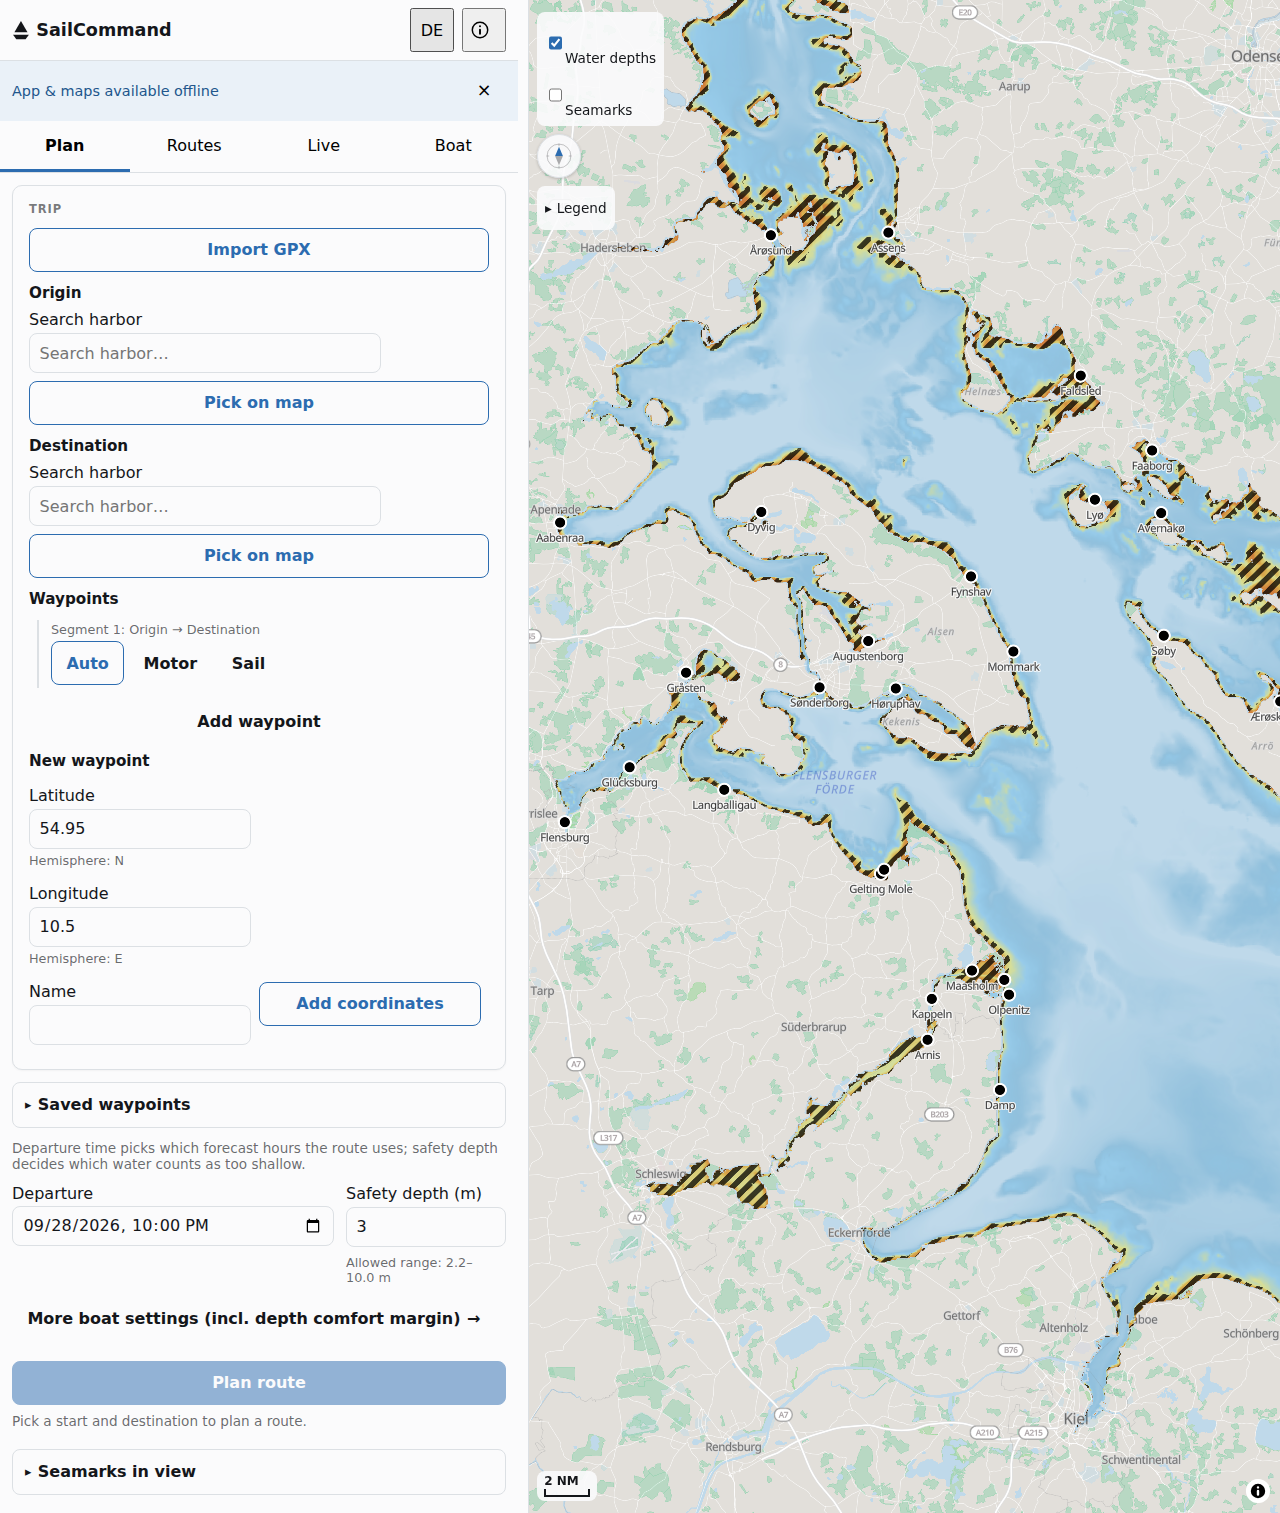
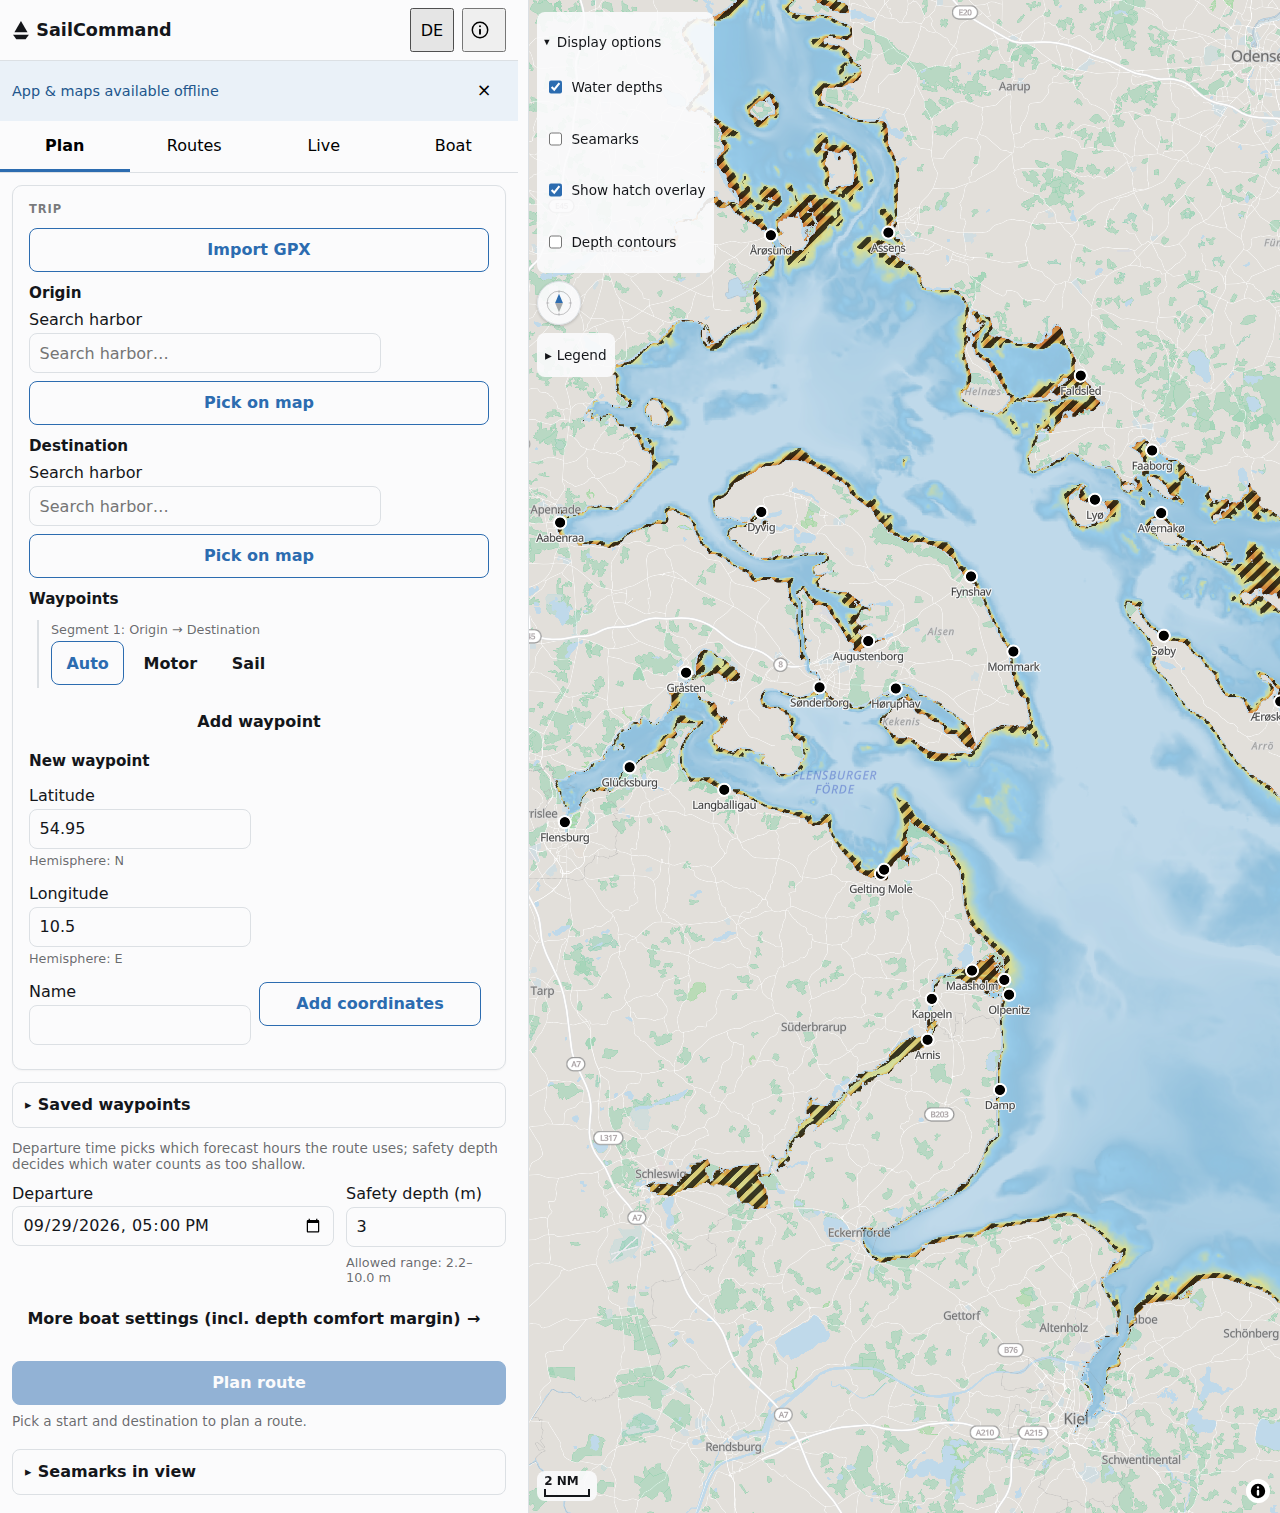
docs: v0.48.0 release sweep (#132 ritual)
Fold the three pending changelog fragments into [0.48.0] (two under
Changed, namely #1540 and #1541; one under Fixed, namely #1533), delete
them, and roll the comparison links.

Roll ROADMAP (Current release, Now, Next), CONTRIBUTING's milestone list
and the security assurance case header and Dependabot figure. README's
depth-overlay bullet now names the display-options control and the
contour toggle. Recapture the three README screenshots against a preview
build of develop; the hero route is sail-dominant. Record the #1540
sweep run in the sweep-closure ledger.

Changed region(s): [[0.4062, 0.0, 0.5625, 0.2485]]

diff --git a/docs/security-assurance-case.md b/docs/security-assurance-case.md
@@ -1,7 +1,7 @@
 # SailCommand security assurance case
 
-**Status:** current as of 2026-09-28, describing `develop` at the time of
-writing (`v0.47.0` cut). Reviewed at each release cut.
+**Status:** current as of 2026-09-29, describing `develop` at the time of
+writing (`v0.48.0` cut). Reviewed at each release cut.
 **Audience:** users deciding whether to trust the app, and reviewers assessing
 the project (this document is the artifact for the OpenSSF Best Practices
 `assurance_case` criterion).
@@ -363,7 +363,7 @@ place to occur, not that it was judged unlikely.
 | **A03 Injection** (CWE-79 XSS, CWE-89 SQLi, CWE-611 XXE) | Countered | No SQL and no server-side interpreter. XSS: no `innerHTML` / `dangerouslySetInnerHTML` / `eval` / `new Function` anywhere; React escapes by default. XXE: `DOMParser` with `application/xml` does not resolve external entities. CodeQL's `js/xss-through-dom` alert on that parse is a **documented false positive** — its DOM-XSS sink model is mime-insensitive, while an `application/xml` parse is inert and the parser extracts only numeric coordinates and enumerated notices |
 | **A04 Insecure design** | Countered | This document is the design argument; see [§5](#5-secure-design-argument). Threats were considered against the architecture, and the largest control is architectural: no backend, no accounts, no central data |
 | **A05 Security misconfiguration** | Countered | Minimal workflow permissions, SHA-pinned actions, protected branches, secret scanning with push protection, no debug endpoints, static hosting. GitHub Pages cannot set response headers, so the app injects a `<meta http-equiv="Content-Security-Policy">` at build time (`cspMeta()` in `app/vite.config.ts`) with `default-src 'self'`, a `connect-src` allowlist of `'self'` plus Open-Meteo and aisstream.io, `worker-src 'self'` (no `blob:` — it would defeat `script-src 'self'`), `img-src` widened to `data:`/`blob:` where maplibre-gl 6 demonstrably needs it, and no `'unsafe-inline'`/`'unsafe-eval'`, plus the static `<meta name="referrer" content="strict-origin-when-cross-origin">` already present in `app/index.html` ([#223](https://github.com/DocGerd/sail_command/issues/223)). The meta form cannot express `frame-ancestors` or `report-uri` — accepted, static host with no framing threat model and no collector |
-| **A06 Vulnerable and outdated components** (CWE-1104) | Countered | Lockfiles for every ecosystem; Dependabot across five update configurations spanning three package ecosystems (npm ×2, pip ×2, github-actions) weekly plus security updates; no open Dependabot alerts — the live state is the fact rather than this sentence: `gh api repos/DocGerd/sail_command/dependabot/alerts --jq '[.[]\|select(.state=="open")]\|length'` (0 at the `v0.47.0` cut); a committed third-party notices inventory whose drift fails CI; no vendored or forked convenience copies |
+| **A06 Vulnerable and outdated components** (CWE-1104) | Countered | Lockfiles for every ecosystem; Dependabot across five update configurations spanning three package ecosystems (npm ×2, pip ×2, github-actions) weekly plus security updates; no open Dependabot alerts — the live state is the fact rather than this sentence: `gh api repos/DocGerd/sail_command/dependabot/alerts --jq '[.[]\|select(.state=="open")]\|length'` (0 at the `v0.48.0` cut); a committed third-party notices inventory whose drift fails CI; no vendored or forked convenience copies |
 | **A07 Identification and authentication failures** | N/A by architecture | There is no authentication. No accounts, no passwords, no sessions, no password reset, nothing to brute-force |
 | **A08 Software and data integrity failures** (CWE-502) | **Partially countered** | Reproducible double-build with byte-drift gating, SHA-pinned actions, protected branches, post-deploy smoke probe, and — from `v0.8.0` — SSH-signed release tags verifiable via `git tag -v` ([#322](https://github.com/DocGerd/sail_command/issues/322)); the signing key is registered and the `git tag -v` verification path is proven end to end for every signed tag including `v0.8.0`, so a user willing to run that command can confirm a tag traces to the maintainer. GitHub's Verified badge — the no-local-config channel — is a documented exception for the `v0.8.0` tag itself (signed under an email not registered on the maintainer's GitHub account; see `v0.8.1`'s CHANGELOG entry) and does show correctly for **every** tag from `v0.8.1` onward, each reporting `verified: true, reason: "valid"` — re-derivable with `gh api repos/DocGerd/sail_command/git/tags/$(git rev-parse refs/tags/vX.Y.Z) --jq .verification` rather than trusted from a list here. No untrusted deserialization: IndexedDB uses structured clone of the app's own records, and a corrupt record is isolated to its own row rather than blanking the list. **Still partial**: signing covers the tagged commit's authorship, not the deployed artifact bytes GitHub Pages serves, and `v0.1.0`–`v0.7.0` remain permanently unsigned |
 | **A09 Logging and monitoring failures** | Accepted, documented | There is deliberately no telemetry — a privacy choice that means client-side attacks cannot be observed centrally. Repository-side monitoring exists (CodeQL, Dependabot, Scorecard, deploy smoke probe). For a client-only app with no user data on any server, the privacy benefit is judged to outweigh the lost visibility |

diff --git a/ROADMAP.md b/ROADMAP.md
@@ -13,46 +13,32 @@ The authoritative, always-current view is the
 milestones. This file is the human-readable summary of that state, refreshed at
 each release cut.
 
-Current release: **v0.47.0**. See [`CHANGELOG.md`](CHANGELOG.md) for what has
+Current release: **v0.48.0**. See [`CHANGELOG.md`](CHANGELOG.md) for what has
 shipped.
 
-## Now — v0.47.0
+## Now — v0.48.0
 
-The `v0.47.0` cut (2026-09-28) worked the
-[`v0.47.0` milestone](https://github.com/DocGerd/sail_command/milestones):
-two user-visible changes (per `CHANGELOG.md`'s own `[0.47.0]` section) —
-plotter-style depth contours, drawn on the cautious depth reading and
-toggled from the depth legend, default off
-([#629](https://github.com/DocGerd/sail_command/issues/629)), and the one-time
-pin of every saved plan's offline map regions at first service-worker control
-no longer depending on the Routes tab being open
-([#1518](https://github.com/DocGerd/sail_command/issues/1518)) — plus four
-issues with no user-visible surface: a failing coverage shard's blob upload is
-no longer skipped, so the failing test can be identified (not yet exercised)
-([#1527](https://github.com/DocGerd/sail_command/issues/1527));
-`compare.mjs`'s `--strip-planning-record` fail-closed guard gained a
-committed test
-([#1514](https://github.com/DocGerd/sail_command/issues/1514)); `pipeline/`
-gained a pytest harness, its first test covering `check_dtm_covers`
-([#1503](https://github.com/DocGerd/sail_command/issues/1503)); and the
-`354-mode-churn` spike's TWS 5.5/wdir 120 Ærøskøbing citation was re-run on
-the post-#1259 grid, which had re-pinned #847's neighbouring repro to TWS 6,
-and recorded as still reproducing
-([#1484](https://github.com/DocGerd/sail_command/issues/1484)).
+The `v0.48.0` cut (2026-09-29) worked the
+[`v0.48.0` milestone](https://github.com/DocGerd/sail_command/milestones):
+three user-visible changes (per `CHANGELOG.md`'s own `[0.48.0]` section) —
+depth contours drawn as smoothed lines that only ever shift toward deeper
+water ([#1540](https://github.com/DocGerd/sail_command/issues/1540)), the hatch and depth-contour toggles moving out of the map
+legend into the display-options control ([#1541](https://github.com/DocGerd/sail_command/issues/1541)), and saved plans' offline
+map regions being backfilled on a page already under service-worker control
+([#1533](https://github.com/DocGerd/sail_command/issues/1533)) — plus two issues with no user-visible surface: test, test-fake and
+comment follow-ups from the contours review ([#1537](https://github.com/DocGerd/sail_command/issues/1537)) and an explicit
+constructor parameter on the zero-argument `ResizeObserver` test fixtures
+behind the CodeQL false-positive alerts
+([#1545](https://github.com/DocGerd/sail_command/issues/1545)).
 
-Four issues that wait on a real-tablet session were moved to `Backlog` this
-cut, not carried forward
-into `v0.48.0`:
-([#1281](https://github.com/DocGerd/sail_command/issues/1281),
-[#1413](https://github.com/DocGerd/sail_command/issues/1413),
-[#1490](https://github.com/DocGerd/sail_command/issues/1490),
-[#1350](https://github.com/DocGerd/sail_command/issues/1350)).
+`ScaleBar` not re-measuring when the display-options control is opened by
+hand ([#1552](https://github.com/DocGerd/sail_command/issues/1552)) was filed during the cycle and sits in `Backlog`.
 
-## Next — v0.48.0
+## Next — v0.49.0
 
-The [`v0.48.0` milestone](https://github.com/DocGerd/sail_command/milestones)
-is empty as of this cut. The milestone page is the only authoritative view,
-check it directly rather than this file.
+The [`v0.49.0` milestone](https://github.com/DocGerd/sail_command/milestones)
+is empty as of this cut and its scope is not decided. The milestone page is
+the only authoritative view, check it directly rather than this file.
 
 ## Themes for the next year
 

diff --git a/CHANGELOG.md b/CHANGELOG.md
@@ -7,6 +7,17 @@ and this project adheres to [Semantic Versioning](https://semver.org/spec/v2.0.0
 
 ## [Unreleased]
 
+## [0.48.0] - 2026-09-29
+
+### Changed
+
+- Depth contours are drawn as smoothed lines instead of a cell-by-cell staircase. Smoothing only ever shifts a line toward deeper water, so a contour still never shows water as deeper than its cautious reading (#1540).
+- The hatch and depth-contour toggles moved out of the map legend into the display-options control: before a route is planned, one collapsible control at the top left (open on wide screens, collapsed on narrow ones) holds the water-depth, seamark, hatch and contour toggles, and once a route exists the hatch and contour toggles sit beside the route's other display toggles; the legend keeps only the explanations (#1541).
+
+### Fixed
+
+- Plans saved before the service worker first took control now download their offline map regions on the next load, per deployment, retrying on later loads (up to three failed attempts) until all are stored (#1533).
+
 ## [0.47.0] - 2026-09-28
 
 ### Added
@@ -1207,7 +1218,8 @@ and this project adheres to [Semantic Versioning](https://semver.org/spec/v2.0.0
 - German/English (de/en) UI localization (#23).
 - Full offline operation after first load via a service worker precache, including the regional PMTiles basemap with Range/206 support (#26).
 
-[Unreleased]: https://github.com/DocGerd/sail_command/compare/v0.47.0...HEAD
+[Unreleased]: https://github.com/DocGerd/sail_command/compare/v0.48.0...HEAD
+[0.48.0]: https://github.com/DocGerd/sail_command/compare/v0.47.0...v0.48.0
 [0.47.0]: https://github.com/DocGerd/sail_command/compare/v0.46.0...v0.47.0
 [0.46.0]: https://github.com/DocGerd/sail_command/compare/v0.45.0...v0.46.0
 [0.45.0]: https://github.com/DocGerd/sail_command/compare/v0.44.0...v0.45.0

diff --git a/README.md b/README.md
@@ -74,10 +74,13 @@ installs as a standalone icon and works fully offline after the first visit
   within the forecast horizon. A water-depths overlay shades the bathymetry
   while you plan (shallows warm, deep water fading out), and hatches water
   whose cautious, worst-case reading falls below your safety depth; the
-  overlay is on by default and can be toggled off, and the hatch can be
-  switched off independently of it. A legend explains what the hatch does
-  and does not mark — below the map's layer controls (collapsed by default)
-  before a route is planned, and folded into the route legend once one is.
+  overlay is on by default and can be toggled off, the hatch can be
+  switched off independently of it, and optional depth contour lines can be
+  switched on. Those toggles sit in the map's display-options control — top
+  left before a route is planned, beside the route's other display toggles
+  once one exists. A legend explains what the hatch does and does not mark —
+  below the map's layer controls (collapsed by default) before a route is
+  planned, and folded into the route legend once one is.
 - **Waypoints**: route through a specific point in between by arming **Add
   waypoint** and then tapping the map, tapping a seamark or a saved
   waypoint, or typing coordinates directly — cancel arming any time with the

diff --git a/CONTRIBUTING.md b/CONTRIBUTING.md
@@ -229,14 +229,14 @@ labels on **pull requests** are applied automatically from changed paths by
 
 **Milestones**
 
-- `v0.48.0` — the milestone now being filled; it closes when the release PR
+- `v0.49.0` — the milestone now being filled; it closes when the release PR
   merges and the tag is pushed.
-- `v0.49.0` — the next MINOR release, opened fresh at the `v0.47.0` cut per
+- `v0.50.0` — the next MINOR release, opened fresh at the `v0.48.0` cut per
   the roll-forward convention below.
 - `Backlog` — accepted, not yet scheduled into a release.
 - `Icebox` — deferred / maybe-never; revisit opportunistically.
 
-`v0.4.0` through `v0.46.0` are closed (plus the `v0.5.1`, `v0.12.1`, and
+`v0.4.0` through `v0.47.0` are closed (plus the `v0.5.1`, `v0.12.1`, and
 `v0.13.1` patch milestones). Whichever cut is in flight is always the
 exception, and reads the same way every time: its issues are closed while
 its milestone object is not, because that closes only at tag push (first
